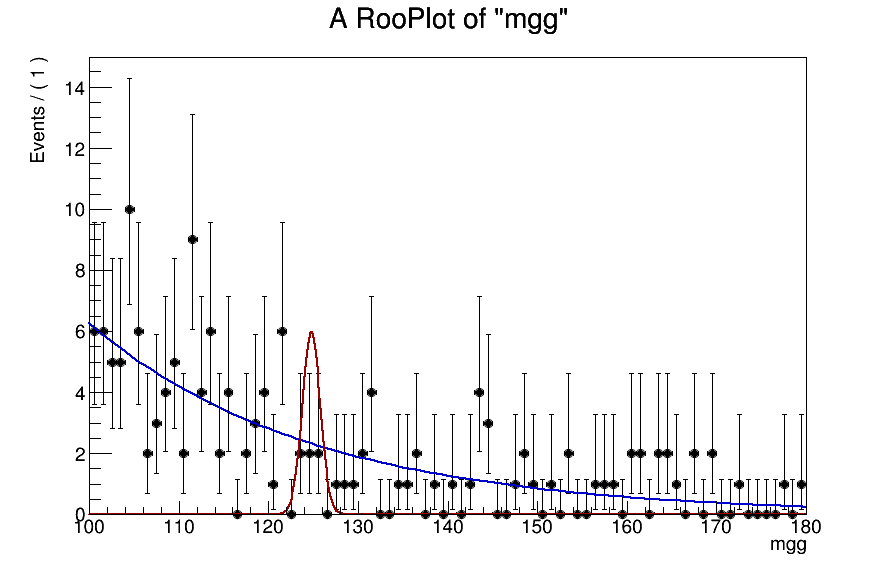
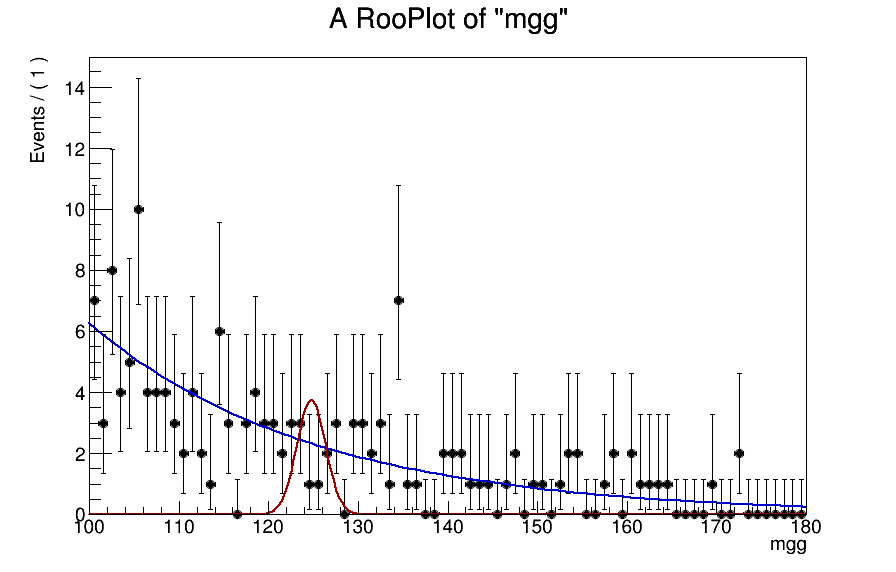
Updated figure

diff --git a/toyStudy/toyLimit_shape_n_roll.py b/toyStudy/toyLimit_shape_n_roll.py
@@ -36,7 +36,7 @@ w.factory('Exponential::bkg_mjj(mjj[70,190],tau_mjj[-0.03])')
 #w.factory('Bernstein::bkg_mjj(mjj[70,190], {4.32, -0.83, -1.75})')
 
 if opt.toyType=="Gauss" or opt.toyType=="2D":
-    w.factory('Gaussian::sig_mgg(mgg, 124.8, sigma_mgg[1])')
+    w.factory('Gaussian::sig_mgg(mgg, 124.8, sigma_mgg[1.6])')
     w.factory('Gaussian::sig_mjj(mjj, 123.0, sigma_mjj[15])')
 
 elif opt.toyType=="CB":
@@ -134,7 +134,7 @@ if opt.mjjCut!=None:
 print Nsig
 print Nbkg
 
-# sys.exit()
+sys.exit()
 
 # ------------
 # Now we can submit jobs to run combine many times:
